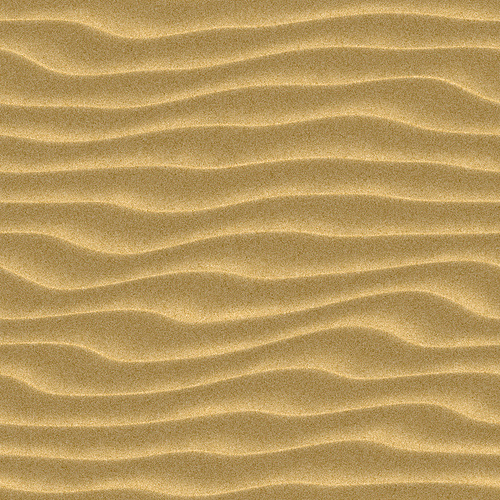
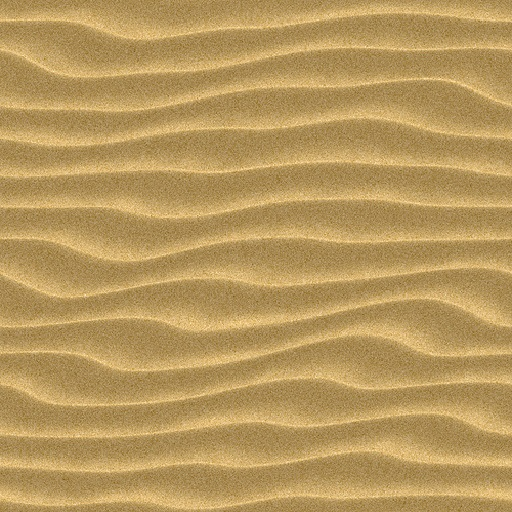
terrain texture sorted; tank texture still buggy

diff --git a/00 Side exercises/9 Tanks/sketch.js b/00 Side exercises/9 Tanks/sketch.js
@@ -26,7 +26,7 @@
 */
 
 const globalExistenceDistanceLimit = 25000;
-const globalBoundry = 12000;
+const globalBoundry = 8000;
 
 const assets = {
   terrain: {},
@@ -75,6 +75,7 @@ const textures = {
   m1a2Body: "",
   m1a2Turret: "",
   m1a2Cannon: "",
+  desertCamo: "",
 };
 
 const sounds = {
@@ -149,6 +150,7 @@ if (main.level > 0) {
     grassScale: 1,
     treesCount: 1,
     grassCount: 1,
+    enemyTankRateOfFire: 1,
     ambientLight: [230, 240, 250],
     sunReflectionOffset: [-3000, 500, 0],
     sunReflectionColor: [250, 240, 200],
@@ -157,12 +159,16 @@ if (main.level > 0) {
   switch (menu.getDifficulty()) {
     case 0:
       options.tanksCount = 1 + +main.level;
+      options.enemyTankRateOfFire = 0.5;
       break;
     case 1:
       options.tanksCount = 2 + +main.level;
+      options.enemyTankRateOfFire = 1;
+
       break;
     case 2:
       options.tanksCount = 4 + +main.level;
+      options.enemyTankRateOfFire = 2;
       break;
     default:
       break;
@@ -516,9 +522,15 @@ if (main.level > 0) {
                 // this.objects[i].showCollisionBox();
 
                 if (this.objects[g].playerShell == true) {
-                  (this.objects[i] instanceof Tank) && this.objects[i].playerTank == false ? playerEconomy.addMoney(100)
-                    : (this.objects[i] instanceof Tree) ? playerEconomy.addMoney(50)
-                      : null;
+                  if ((this.objects[i] instanceof Tank) && this.objects[i].playerTank == false) {
+                    playerEconomy.addMoney(100 * (1 + (+menu.getDifficulty())));
+                    playerScore.add(800 * (1 + (+menu.getDifficulty())));
+                  }
+                  else if ((this.objects[i] instanceof Tree)) {
+                    playerEconomy.addMoney(50 * (1 + (+menu.getDifficulty())));
+                    playerScore.add(100 * (1 + (+menu.getDifficulty())));
+                  }
+                  else null;
                 }
 
 
@@ -666,13 +678,26 @@ if (main.level > 0) {
 
     show() {
       push();
-      translate(this.positionX, 100, this.positionZ)
+      translate(this.positionX-15000, 100, this.positionZ-15000)
       rotateX(PI / 2);
       ambientMaterial(0);
       texture(this.texture);
+      // texture(this.texture);
       noStroke();
-      plane(this.sizeX, this.sizeZ);
+      scale(150)
+      beginShape(TRIANGLE_STRIP);
+      vertex(0, 0, 0, 0, 0);
+      vertex(0, 200, 0, 0, 40000);
+      vertex(200, 0, 0, 40000, 0);
+      vertex(200, 200, 0, 40000, 40000);
+      vertex(200, 0, 0, 0, 0);
+      vertex(200, 200, 0, 0, 40000);
+      vertex(200, 0, 0, 40000, 0);
+      vertex(200, 200, 0, 40000, 40000);
+      endShape(CLOSE);
+      // plane(this.sizeX, this.sizeZ);
       pop();
+
     }
 
   }
@@ -1519,13 +1544,11 @@ if (main.level > 0) {
     menu.loadingScreen.style.display = 'block';
 
     // ONLY 2 DIFFERENT LEVELS FOR NOW
-    switch (+main.level) {
-      case 1:
-      case 3:
-      case 5:
+    switch (+main.level % 3) {
+      case 4:
 
         textures.sky = loadImage("files/background/sky2.jpg");
-        textures.terrain = loadImage("files/background/sand.png");
+        textures.terrain = loadImage("files/background/sandTexture.jpg");
         textures.brick = loadImage("files/background/brick.jpg");
 
         //TREE1
@@ -1548,12 +1571,9 @@ if (main.level > 0) {
 
 
         break;
-      case 2:
-      case 4:
-      case 6:
-
+      case 1:
         textures.sky = loadImage("files/background/sky1.jpg");
-        textures.terrain = loadImage("files/background/sand.png");
+        textures.terrain = loadImage("files/background/sandTexture.jpg");
         textures.brick = loadImage("files/background/brick.jpg");
 
         //TREE1  
@@ -1572,8 +1592,30 @@ if (main.level > 0) {
         options.treesCount = 1.5;
 
         options.ambientLight = [230, 240, 250];
-        options.sunReflectionOffset = [4000, 0, 0];
-        options.sunReflectionColor = [255, 255, 255];
+        options.sunReflectionOffset = [4000, 1000, 0];
+        options.sunReflectionColor = [255, 255, 200];
+        break;
+
+      case 0:
+        textures.sky = loadImage("files/background/sky3.jpg");
+        textures.terrain = loadImage("files/background/sandTexture.jpg");
+        textures.brick = loadImage("files/background/brick.jpg");
+
+        //TREE1  
+        models.complexTree.model.body = loadModel("files/models/scenery/trees/tree/nothing.obj");
+        models.complexTree.model.flowers = loadModel("files/models/scenery/trees/tree/nothing.obj");
+        models.complexTree.model.leaves = loadModel("files/models/scenery/trees/tree/nothing.obj");
+
+        models.grass = loadModel("files/models/scenery/grass/spiderPlant_nt.obj");
+        textures.grass = loadImage("files/models/scenery/grass/spiderPlant_nt/Spider_leaf_clean.png");
+
+        options.grassScale = 1.3;
+        options.grassCount = 3;
+        options.treesCount = 0;
+
+        options.ambientLight = [0, 0, 50];
+        options.sunReflectionOffset = [4000, -1000, -3000];
+        options.sunReflectionColor = [100, 120, 150];
         break;
       default:
         break;
@@ -1585,9 +1627,10 @@ if (main.level > 0) {
     models.m1a2Turret = loadModel("files/models/tanks/m1a2/m1a2turret.obj");
     models.m1a2Cannon = loadModel("files/models/tanks/m1a2/m1a2cannon.obj");
 
-    textures.m1a2Body = loadImage("files/textures/m1a2texture.jpg")
-    textures.m1a2Cannon = loadImage("files/textures/m1a2texture.jpg")
-    textures.m1a2Turret = loadImage("files/textures/m1a2texture.jpg")
+    textures.m1a2Body = loadImage("files/textures/unclamped2.jpg")
+    textures.m1a2Cannon = loadImage("files/textures/unclamped2.jpg")
+    textures.m1a2Turret = loadImage("files/textures/unclamped2.jpg")
+    textures.desertCamo = loadImage("files/textures/camo1.jpg")
 
     models.tree1 = loadModel("files/models/scenery/trees/tree1noleaves.obj");
     models.tree3 = loadModel("files/models/scenery/trees/treeBoomDobro.obj");
@@ -1635,7 +1678,8 @@ if (main.level > 0) {
     //CREATE ESSENTIALS
     assets.collison = new Collision();
     assets.environment = new Environment();
-    assets.terrain = new Terrain(0, 0, 25000, 25000, textures.terrain)
+    textureWrap(MIRROR);
+    assets.terrain = new Terrain(0, 0, 25000, 25000, textures.terrain);
     assets.environment.sky = new Sky(0, 0, 0);
     particles = new Particles();
 
@@ -1726,7 +1770,7 @@ if (main.level > 0) {
 
     // pTank.seek(createVector(500, 1000));
 
-    //DRAW TERRAIN  
+    //DRAW TERRAIN      
     assets.terrain.show();
 
     //MOUSE PRESSED
@@ -1749,7 +1793,7 @@ if (main.level > 0) {
         tankCount++;
         object.playerTank
           ? object.reloadShell(300 / +hangar.tankUpgrades.getCannonValue())
-          : object.reloadShell(300);
+          : object.reloadShell(300 / options.enemyTankRateOfFire);
       }
       if (object.AIActive === `AIActive`) {
         object.AIControlled();
@@ -1768,6 +1812,9 @@ if (main.level > 0) {
     hud.moneyValue.innerText = playerEconomy.getMoneyCount();
 
     if (pTank.isDead === true) {
+
+      playerScore.setHigh();
+      playerScore.reset();
       document.getElementsByClassName(`centerText`)[0].style.display = `flex`;
 
       hangar.tankUpgrades.resetAll();
@@ -1783,6 +1830,9 @@ if (main.level > 0) {
       if (frameCount % 500 == 0) {
         Main.nextLevel();
         Main.save(+localStorage.getItem('level'));
+
+        playerScore.add(0);
+        playerScore.setHigh();
         hangar.go();
         window.location.reload();
       }

diff --git a/00 Side exercises/9 Tanks/mainMenu.js b/00 Side exercises/9 Tanks/mainMenu.js
@@ -55,6 +55,37 @@ let playerEconomy = {
     addMoney: number => localStorage.setItem('playerMoney', playerEconomy.getMoneyCount() + number),
     deductMoney: number => localStorage.setItem('playerMoney', playerEconomy.getMoneyCount() - number),
 }
+let playerScore = {
+    currentScoreSpan: document.getElementById('currentScoreSpan'),
+    highScoreSpan: document.getElementById('highScoreSpan'),
+
+    currentScore: +localStorage.getItem('currentScore'),
+    highScore: localStorage.getItem('highScore'),
+
+    add: (number) => {
+        let getCurrentScore = +localStorage.getItem('currentScore');
+        getCurrentScore += number;
+        localStorage.setItem('currentScore', getCurrentScore);
+        playerScore.currentScore = +localStorage.getItem('currentScore');
+        playerScore.currentScoreSpan.innerText = localStorage.getItem('currentScore');
+    },
+    reset: () => {
+        localStorage.setItem('currentScore', 0);
+    },
+    setHigh: () => {
+        if (playerScore.currentScore > playerScore.highScore) {
+            localStorage.setItem('highScore', playerScore.currentScore)
+            playerScore.highScoreSpan.innerText = localStorage.getItem('highScore')
+        }
+        else null
+    },
+
+    getHigh: () => localStorage.getItem('highScore'),
+}
+playerScore.add(0);
+playerScore.setHigh();
+playerScore.highScoreSpan.innerText = playerScore.getHigh();
+
 
 //HANGAR DOM AND ALL UPGRADES AND UPGRADE METHODS
 let hangar = {
@@ -198,6 +229,7 @@ hangar.leaveButton.addEventListener('click', () => {
 //#region MAIN MENU
 //NEW GAME
 menu.newGameButton.addEventListener('click', () => {
+    playerScore.reset();
     localStorage.setItem('level', 1);
     localStorage.setItem('save', 1);
     hangar.go();
@@ -206,6 +238,7 @@ menu.newGameButton.addEventListener('click', () => {
 
 //CONTINUE GAME
 menu.loadGameButton.addEventListener('click', () => {
+    playerScore.reset();
     let saveValue = +localStorage.getItem('save');
     localStorage.setItem('level', saveValue);
     hangar.go();
@@ -213,7 +246,7 @@ menu.loadGameButton.addEventListener('click', () => {
 })
 
 //CONTROLS
-menu.controlsButton.addEventListener('click', ()=>{
+menu.controlsButton.addEventListener('click', () => {
     menu.firstMenu.style.display = 'none';
     menu.controlsMenu.style.display = 'block';
 })

diff --git a/00 Side exercises/9 Tanks/index.html b/00 Side exercises/9 Tanks/index.html
@@ -93,8 +93,6 @@
         <h2>Servo Motors <span id="servoMotorsValueSpan">1</span></h2>
         <h2>Reload Speed <span id="cannonPowerValueSpan">1</span></h2>
         <h2 id="hangarMoney">Money <span id="hangarMoneyValueSpan">1</span> $</h2>
-
-
       </div>
       <div id="hangarButtonsContainer">
         <button class="hangarButtons" id="engineUpgradeButton">Engine Upgrade <span class="buttonPrice"
@@ -107,6 +105,11 @@
           $</button>
       </div>
       <div id="hangarFooter">
+        <h2 id="currentScore">
+          SCORE: <span id="currentScoreSpan">0</span><br>
+          HIGH SCORE: <span id="highScoreSpan">0</span>
+         </h2>
+        <!-- <h2 id="highScore">HIGH SCORE: <span id="highScoreSpan">10000</span></h2> -->
         <button id="leaveHangar">Leave Hangar</button>
       </div>
     </div>
@@ -114,13 +117,13 @@
 
   <div id="HUDContainer">
     <div id="HUDtopLeft">
-      <h2>ENEMY TANKS:<span id="enemyTanksValue">0</span></h2>
+      <h2>ENEMY TANKS:<span id="enemyTanksValue"></span></h2>
     </div>
     <div id="HUDtopCenter">
       <img id="loaderGif"src="menuImages/shellLoading.gif" alt="gifOfLoadingShell">
     </div>
     <div id="HUDtopRight">
-      <h2>MONEY:<span id="moneyValue">0</span> $</h2>
+      <h2>MONEY:<span id="moneyValue"></span> $</h2>
     </div>
   </div>
   <div class="centerText">

diff --git a/00 Side exercises/9 Tanks/style.css b/00 Side exercises/9 Tanks/style.css
@@ -179,8 +179,18 @@ box-shadow: 0 0 30px rgba(179, 0, 0, 0.486);
   width: 100%;
 display: flex;
 flex-wrap: wrap;
-flex-direction: row-reverse;
+justify-content: space-around;
+margin-top: 50px;
 }
+#currentScore{
+  background-color: rgba(0, 0, 0, 0.325);
+  border-radius: 25px;
+  color: white;
+  padding-left: 40px;
+  padding-right: 20px;
+  text-align: left;
+}
+
 
 #leaveHangar{
   height: 100px;
@@ -188,8 +198,6 @@ flex-direction: row-reverse;
   font-size: 30px;
   color: white;
   border-radius: 15px;
-  margin-top: 50px;
-  margin-right: 150px;
   background-color: rgba(0, 0, 0, 0.486);
 }
 
